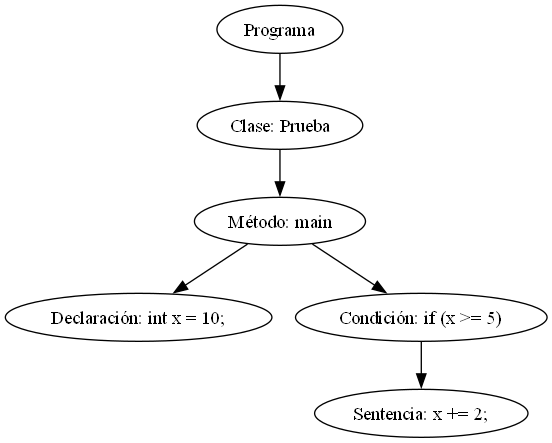
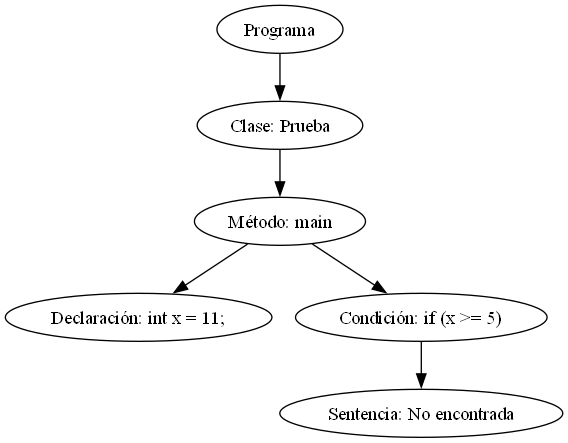
Se implementa la generación de un árbol sintáctico a partir de tokens obtenidos del análisis léxico, añadiendo nodos para clase, método, declaraciones y sentencias.

diff --git a/AnalizadorLexico/analizador_sintactico.py b/AnalizadorLexico/analizador_sintactico.py
@@ -1,34 +1,88 @@
 # analizador_sintactico.py
 from graphviz import Digraph
+from analizador_lexico import analizar_lexicamente
 
 def generar_arbol_sintactico(codigo: str):
     """
-    Función que recibe un código Java y genera un árbol sintáctico a modo de ejemplo.
-    Aquí podrías implementar la lógica de análisis sintáctico real.
+    Genera un árbol sintáctico a modo de ejemplo, utilizando los tokens obtenidos 
+    del análisis léxico para construir una estructura sencilla.
     """
+    # Obtener la lista de tokens del código
+    tokens = analizar_lexicamente(codigo)
+    
     dot = Digraph(comment='Árbol Sintáctico')
-
-    # Nodo raíz (por ejemplo, el programa completo)
     dot.node('A', 'Programa')
 
-    # Suponiendo que el código se compone de una clase, un método y algunas sentencias:
-    dot.node('B', 'Clase: Prueba')
+    # --- Nodo para la definición de la clase ---
+    # Buscamos la palabra reservada "class" y asumimos que el siguiente token es el nombre de la clase.
+    clase_index = None
+    for i, token in enumerate(tokens):
+        if token[0] == "class":
+            clase_index = i
+            break
+    if clase_index is not None and clase_index + 1 < len(tokens):
+        nombre_clase = tokens[clase_index + 1][0]
+        dot.node('B', f'Clase: {nombre_clase}')
+    else:
+        dot.node('B', 'Clase: Desconocida')
     dot.edge('A', 'B')
 
-    dot.node('C', 'Método: main')
+    # --- Nodo para el método main ---
+    # Buscamos el token "main" para identificar el método principal.
+    main_index = None
+    for i, token in enumerate(tokens):
+        if token[0] == "main":
+            main_index = i
+            break
+    if main_index is not None:
+        dot.node('C', 'Método: main')
+    else:
+        dot.node('C', 'Método: Desconocido')
     dot.edge('B', 'C')
 
-    dot.node('D', 'Declaración: int x = 10;')
+    # --- Nodo para una declaración de variable ---
+    # Buscamos el token "int" y asumimos la siguiente secuencia: int, identificador, '=', valor, ';'
+    int_index = None
+    for i, token in enumerate(tokens):
+        if token[0] == "int":
+            int_index = i
+            break
+    if int_index is not None and int_index + 4 < len(tokens):
+        var = tokens[int_index + 1][0]
+        valor = tokens[int_index + 3][0]
+        dot.node('D', f'Declaración: int {var} = {valor};')
+    else:
+        dot.node('D', 'Declaración: No encontrada')
     dot.edge('C', 'D')
 
-    dot.node('E', 'Condición: if (x >= 5)')
+    # --- Nodo para la sentencia if ---
+    # Buscamos el token "if"
+    if_index = None
+    for i, token in enumerate(tokens):
+        if token[0] == "if":
+            if_index = i
+            break
+    if if_index is not None:
+        # En una implementación real, se analizaría la condición. Aquí usamos un ejemplo simplificado.
+        dot.node('E', 'Condición: if (x >= 5)')
+    else:
+        dot.node('E', 'Condición: No encontrada')
     dot.edge('C', 'E')
 
-    dot.node('F', 'Sentencia: x += 2;')
+    # --- Nodo para la sentencia dentro del if ---
+    # Buscamos el operador "+=" para identificar la sentencia
+    plus_index = None
+    for i, token in enumerate(tokens):
+        if token[0] == "+=":
+            plus_index = i
+            break
+    if plus_index is not None and plus_index - 1 >= 0 and plus_index + 1 < len(tokens):
+        var = tokens[plus_index - 1][0]
+        valor = tokens[plus_index + 1][0]
+        dot.node('F', f'Sentencia: {var} += {valor};')
+    else:
+        dot.node('F', 'Sentencia: No encontrada')
     dot.edge('E', 'F')
 
-    # Aquí podrías parsear el código real para generar un árbol más detallado,
-    # usando el input en "codigo". Este ejemplo es estático.
-    
-    # Guardar el gráfico en un archivo PNG
+    # Guardamos y generamos la imagen del árbol en formato PNG.
     dot.render('arbol_sintactico', format='png', cleanup=True)
